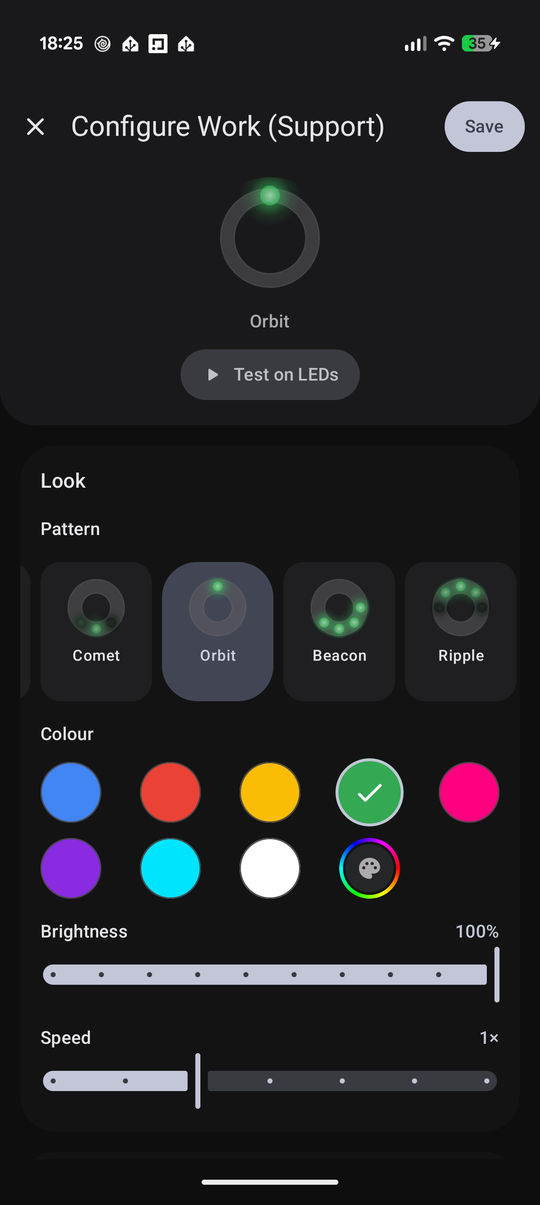
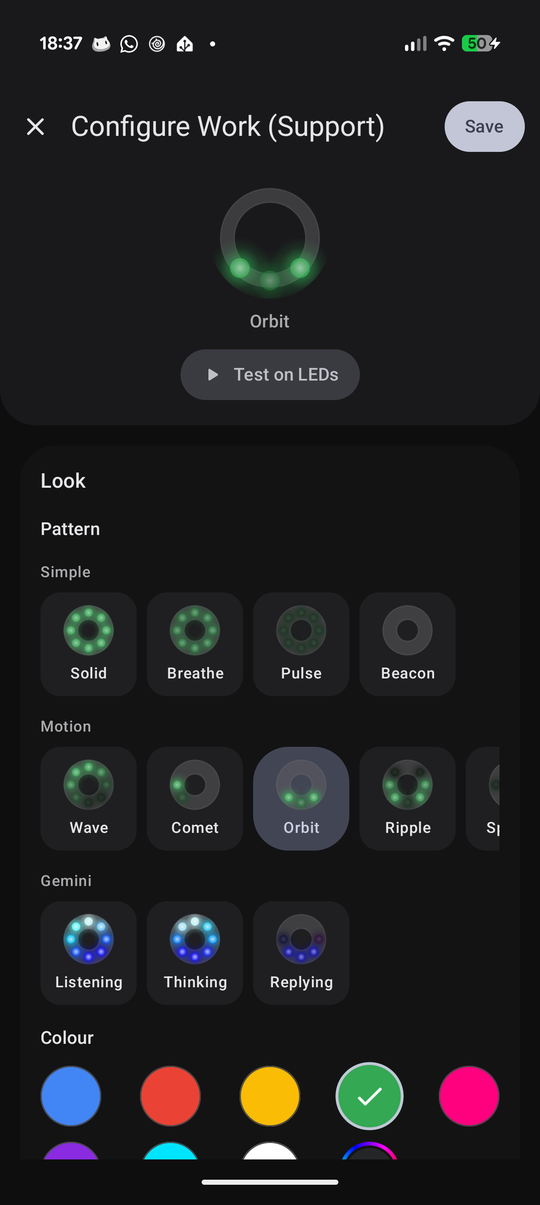
feat(rules): group the pattern picker into Simple, Motion and Gemini rows
The rule editor's patterns were one long row to scroll sideways through.
Each group now has its own short row under a heading, so there's less
to scroll and related looks sit together.

- Smaller cards with one-line names; the Gemini cards drop "Gemini",
  which the heading already says.
- Every row starts at the same edge, and only opens scrolled when the
  rule's pattern would otherwise be out of view. Rows are inset, so
  cards scrolling past are cut off at the section's margin.
- README and XDA post updated, and the rule editor screenshot retaken
  (XDA image cache bumped).

diff --git a/app/src/main/java/com/mwilky/hilight/plus/ui/RuleEditor.kt b/app/src/main/java/com/mwilky/hilight/plus/ui/RuleEditor.kt
@@ -127,6 +127,22 @@ data class RuleEditorResult(
     val speed: Float
 )
 
+/**
+ * The editor's pattern picker, a short row per group, so it never becomes one long row.
+ */
+enum class PatternGroup(val titleRes: Int, val patterns: List<PatternMode>) {
+    SIMPLE(R.string.pattern_group_simple, listOf(PatternMode.SOLID, PatternMode.BREATHE, PatternMode.PULSE, PatternMode.BEACON)),
+    MOTION(
+        R.string.pattern_group_motion,
+        listOf(PatternMode.WAVE, PatternMode.COMET, PatternMode.ORBIT, PatternMode.RIPPLE, PatternMode.SPARKLE, PatternMode.RAINBOW)
+    ),
+    GEMINI(R.string.pattern_group_gemini, listOf(PatternMode.GEMINI_LISTENING, PatternMode.GEMINI_THINKING, PatternMode.GEMINI_REPLYING));
+
+    companion object {
+        val RULES = listOf(SIMPLE, MOTION, GEMINI)
+    }
+}
+
 internal val PALETTE = listOf(
     0xFF4285F4, // Google Blue
     0xFFEA4335, // Google Red
@@ -159,7 +175,8 @@ fun CustomRuleDialog(
     initialAutoColor: Boolean = true,
     autoExtractedColor: Long? = null,
     initialBrightness: Float = DEFAULT_BRIGHTNESS,
-    initialSpeed: Float = DEFAULT_SPEED
+    initialSpeed: Float = DEFAULT_SPEED,
+    patternGroups: List<PatternGroup> = PatternGroup.RULES
 ) {
     Dialog(
         onDismissRequest = onDismiss,
@@ -191,7 +208,8 @@ fun CustomRuleDialog(
             initialAutoColor = initialAutoColor,
             autoExtractedColor = autoExtractedColor,
             initialBrightness = initialBrightness,
-            initialSpeed = initialSpeed
+            initialSpeed = initialSpeed,
+            patternGroups = patternGroups
         )
     }
 }
@@ -214,7 +232,8 @@ private fun RuleEditorContent(
     initialAutoColor: Boolean,
     autoExtractedColor: Long?,
     initialBrightness: Float,
-    initialSpeed: Float
+    initialSpeed: Float,
+    patternGroups: List<PatternGroup> = PatternGroup.RULES
 ) {
     var isAutoColor by remember(initialAutoColor) { mutableStateOf(initialAutoColor) }
     var selectedColor by remember(initialColor) {
@@ -262,7 +281,6 @@ private fun RuleEditorContent(
         isTesting = !isTesting
     }
 
-    val patterns = remember { PatternMode.entries.filter { it != PatternMode.OFF } }
     val isColorEnabled = !selectedPattern.hasFixedColors
     val canPickManualColor = isColorEnabled && (!showAutoColorToggle || !isAutoColor)
     val manualColorAlpha by animateFloatAsState(
@@ -341,23 +359,39 @@ private fun RuleEditorContent(
                     style = MaterialTheme.typography.labelLarge,
                     modifier = Modifier.padding(horizontal = 16.dp)
                 )
-                val listState = rememberLazyListState(
-                    initialFirstVisibleItemIndex = (patterns.indexOf(selectedPattern) - 1).coerceAtLeast(0)
-                )
-                LazyRow(
-                    state = listState,
-                    contentPadding = PaddingValues(horizontal = 16.dp),
-                    horizontalArrangement = Arrangement.spacedBy(8.dp)
-                ) {
-                    items(patterns, key = { it.id }) { p ->
-                        PatternCard(
-                            pattern = p,
-                            color = selectedColor,
-                            selected = selectedPattern == p,
-                            elapsedMs = clockMs,
-                            renderer = renderer,
-                            onClick = { selectedPattern = p }
+                // One short row per group under its own heading, rather than one long row.
+                patternGroups.forEach { group ->
+                    Column(verticalArrangement = Arrangement.spacedBy(8.dp)) {
+                        Text(
+                            text = stringResource(group.titleRes),
+                            style = MaterialTheme.typography.labelMedium,
+                            color = MaterialTheme.colorScheme.onSurfaceVariant,
+                            modifier = Modifier.padding(horizontal = 16.dp)
                         )
+                        // Rows all start at the same edge; one only opens scrolled when the
+                        // rule's pattern would otherwise be out of view.
+                        val listState = rememberLazyListState(
+                            initialFirstVisibleItemIndex = (group.patterns.indexOf(initialPattern) - (PATTERN_CARDS_IN_VIEW - 1)).coerceAtLeast(0)
+                        )
+                        // Inset rather than padded inside, so cards scrolling past are cut off at
+                        // the section's margin, in line with everything else in it.
+                        LazyRow(
+                            state = listState,
+                            modifier = Modifier.padding(horizontal = 16.dp),
+                            horizontalArrangement = Arrangement.spacedBy(8.dp)
+                        ) {
+                            items(group.patterns, key = { it.id }) { p ->
+                                PatternCard(
+                                    pattern = p,
+                                    title = stringResource(p.cardTitleRes),
+                                    color = selectedColor,
+                                    selected = selectedPattern == p,
+                                    elapsedMs = clockMs,
+                                    renderer = renderer,
+                                    onClick = { selectedPattern = p }
+                                )
+                            }
+                        }
                     }
                 }
 
@@ -673,9 +707,22 @@ private fun EditorSection(
     }
 }
 
+/** How many pattern cards a row shows before it has to scroll, on the narrowest screen. */
+private const val PATTERN_CARDS_IN_VIEW = 4
+
+/** A card's name: under the Gemini heading, "Gemini" in each name would only repeat it. */
+private val PatternMode.cardTitleRes: Int
+    get() = when (this) {
+        PatternMode.GEMINI_LISTENING -> R.string.gemini_state_listening
+        PatternMode.GEMINI_THINKING -> R.string.gemini_state_thinking
+        PatternMode.GEMINI_REPLYING -> R.string.gemini_state_replying
+        else -> titleRes
+    }
+
 @Composable
 private fun PatternCard(
     pattern: PatternMode,
+    title: String,
     color: Long,
     selected: Boolean,
     elapsedMs: Long,
@@ -697,21 +744,21 @@ private fun PatternCard(
         onClick = onClick,
         shape = RoundedCornerShape(corner),
         color = container,
-        modifier = Modifier.width(88.dp)
+        modifier = Modifier.width(76.dp)
     ) {
         Column(
-            modifier = Modifier.padding(horizontal = 8.dp, vertical = 12.dp),
+            modifier = Modifier.padding(horizontal = 6.dp, vertical = 10.dp),
             horizontalAlignment = Alignment.CenterHorizontally,
             verticalArrangement = Arrangement.spacedBy(6.dp)
         ) {
-            PatternRing(pattern = pattern, color = color, elapsedMs = elapsedMs, renderer = renderer, size = 48.dp)
-            // Two lines for every card, so longer names wrap and all cards stay the same height.
+            PatternRing(pattern = pattern, color = color, elapsedMs = elapsedMs, renderer = renderer, size = 40.dp)
+            // One line: every name fits once the group heading carries the rest, so the cards
+            // stay compact and all the same height.
             Text(
-                text = stringResource(pattern.titleRes),
+                text = title,
                 style = MaterialTheme.typography.labelMedium,
                 textAlign = TextAlign.Center,
-                minLines = 2,
-                maxLines = 2,
+                maxLines = 1,
                 overflow = TextOverflow.Ellipsis
             )
         }

diff --git a/app/src/test/java/com/mwilky/hilight/plus/ui/PatternGroupTest.kt b/app/src/test/java/com/mwilky/hilight/plus/ui/PatternGroupTest.kt
@@ -1,0 +1,15 @@
+package com.mwilky.hilight.plus.ui
+
+import com.mwilky.hilight.plus.PatternMode
+import org.junit.Assert.assertEquals
+import org.junit.Test
+
+class PatternGroupTest {
+
+    @Test
+    fun everyPatternIsInExactlyOneGroup() {
+        val grouped = PatternGroup.entries.flatMap { it.patterns }
+        assertEquals(grouped.size, grouped.toSet().size)
+        assertEquals(PatternMode.entries.toSet() - PatternMode.OFF, grouped.toSet())
+    }
+}

diff --git a/README.md b/README.md
@@ -23,7 +23,7 @@ Pixel's built-in HiLight lights the rear ring for two things: calls from favouri
 **Notifications**
 - Rules per message sender and per app, plus a general default with automatic colour taken from the app icon.
 - Starred contacts can share a favourites style, which sits between a sender's own rule and the app rule.
-- Thirteen patterns: solid, breathe, pulse, wave, comet, orbit, beacon, ripple, sparkle, rainbow, and copies of Gemini's own listening, thinking and replying effects.
+- Thirteen patterns, picked by group (Simple, Motion, Gemini): solid, breathe, pulse, beacon, wave, comet, orbit, ripple, sparkle, rainbow, and copies of Gemini's own listening, thinking and replying effects.
 - Eight preset colours or any custom colour from a colour wheel, for every rule, battery's fixed colour and Gemini's states. The custom colour's hex code can be copied and pasted into another rule.
 - A brightness setting, from 10% to 100%, for every rule and each of Gemini's states. Existing rules stay at 100%.
 - A speed setting, from half to twice each pattern's own pace, for every rule and each of Gemini's states. Existing rules keep their normal pace.
